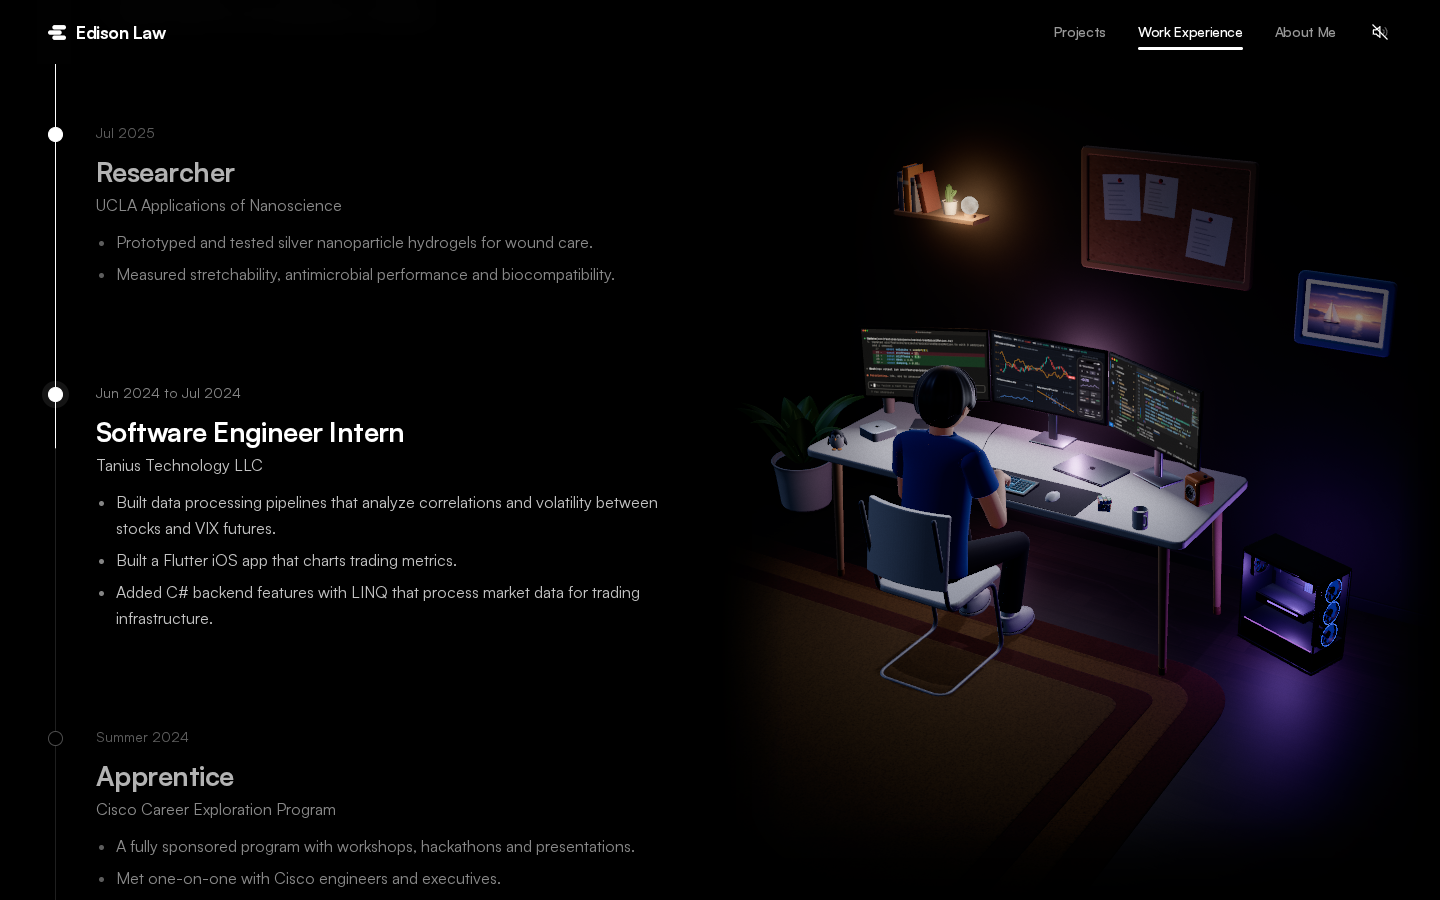
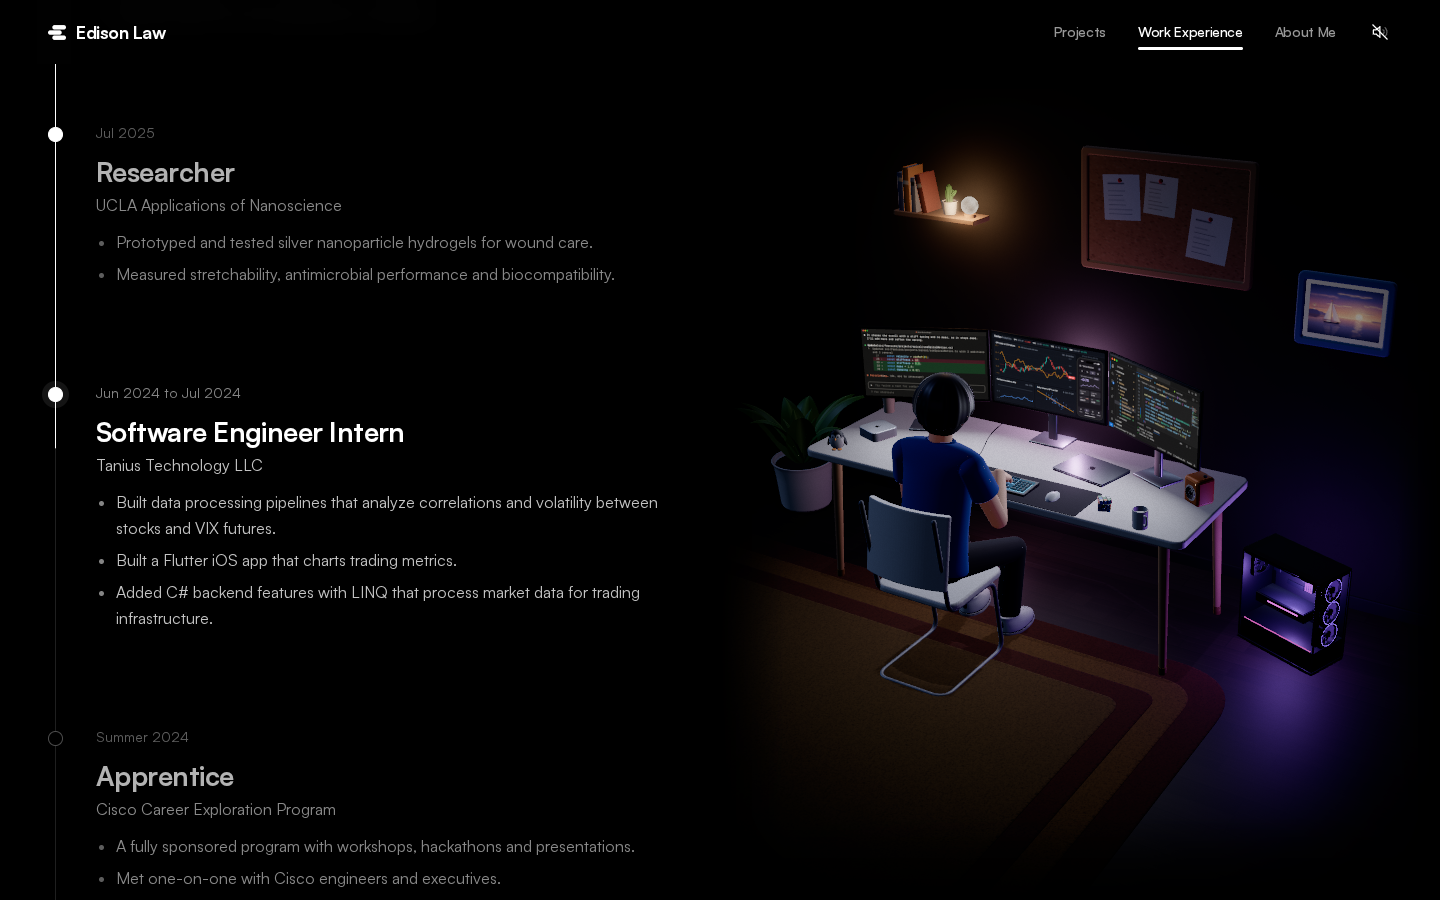
Make Edison a little shorter and refresh the previews
He now stands about 1.69 m instead of 1.76 m: shorter legs and trunk,
arms trimmed to match, same head and face. The loading previews for
phones and desktops are captured again so they show the new figure,
with the dog fully faded in.

Changed region(s): [[0.5938, 0.3733, 0.7188, 0.56], [0.9062, 0.6533, 0.9375, 0.7156], [0.6875, 0.5911, 0.7188, 0.6222]]

diff --git a/src/features/workstation/character/dimensions.ts b/src/features/workstation/character/dimensions.ts
@@ -1,36 +1,36 @@
 /**
  * Body measurements in metres, in the character's own space (+Y up, facing +Z, his left is +X).
- * Standing he is about 1.76 tall and roughly 6.5 heads tall, a college student's build: long legs
+ * Standing he is about 1.69 tall and roughly 6.3 heads tall, a college student's build: long legs
  * and arms, broad shoulders and a head a little larger than life, so his face still reads from afar.
  */
 export const BODY = {
   /** Pelvis joint above the floor when standing, a touch under the straight leg length so the knees stay soft. */
-  standingPelvisHeight: 0.905,
+  standingPelvisHeight: 0.866,
   /** Pelvis joint above the seat contact point when seated. */
   seatedPelvisHeight: 0.13,
 
   /** Hip joints relative to the pelvis joint. */
   hip: { x: 0.088, y: -0.036 },
-  thigh: 0.43,
-  shin: 0.41,
+  thigh: 0.412,
+  shin: 0.389,
   /** Height of the ankle joint above the sole. */
   ankle: 0.077,
 
   /** Waist pivot above the pelvis joint. */
-  spine: 0.071,
+  spine: 0.067,
   /** Chest pivot above the waist pivot. */
-  chest: 0.178,
+  chest: 0.168,
   /** Shoulder joints relative to the chest pivot. */
-  shoulder: { x: 0.174, y: 0.216, z: -0.006 },
+  shoulder: { x: 0.174, y: 0.204, z: -0.006 },
   /** Base of the neck above the chest pivot. */
-  neck: 0.27,
+  neck: 0.255,
   /** Head pivot above the base of the neck. */
   headPivot: 0.05,
   /** Centre of the skull relative to the head pivot. */
   headCenter: { y: 0.122, z: 0.012 },
 
-  upperArm: 0.31,
-  forearm: 0.27,
+  upperArm: 0.302,
+  forearm: 0.263,
 } as const;
 
 /**
@@ -38,7 +38,7 @@ export const BODY = {
  * them to the adult build above: wider, much longer and a little deeper. The spine, chest, neck and
  * shoulder measurements above are the originals stretched the same way, so every seam still meets.
  */
-export const TRUNK_SCALE = [1.15, 1.42, 1.0] as const;
+export const TRUNK_SCALE = [1.15, 1.34, 1.0] as const;
 /** The trouser seat is stretched less in height, so he sits on the chair rather than floating over it. */
 export const SEAT_SCALE = [1.18, 1.2, 1.08] as const;
 /** The head and everything on it (face, hair, ears) is modelled large and shrunk to this size. */

diff --git a/README.md b/README.md
@@ -47,7 +47,7 @@ Next.js 16 with the App Router, React 19 and TypeScript. Tailwind CSS 4 for styl
 ### The desk scene
 
 - The room, the props, Edison and his dog are all built from primitives in code, with no model files. `src/features/workstation/layout.ts` holds the shared measurements, so the desk, keyboard, chair, character and dog line up.
-- Edison is built to a college student's proportions, about 1.76 m and six and a half heads tall, on a small rig with two-bone IK. Seated, his hands type on the real keyboard position and his feet rest flat on the floor. Standing, he sips his coffee, stops to think and strokes the golden retriever, which sits at his side, leans into his hand and sweeps its tail. The dog is sculpted in a worker and fades in once it is ready.
+- Edison is built to a college student's proportions, about 1.69 m and six heads tall, on a small rig with two-bone IK. Seated, his hands type on the real keyboard position and his feet rest flat on the floor. Standing, he sips his coffee, stops to think and strokes the golden retriever, which sits at his side, leans into his hand and sweeps its tail. The dog is sculpted in a worker and fades in once it is ready.
 - The desk has three matching monitors, a Mac mini and a MacBook Pro with its lid shut. The wall has a shelf, a cork board and a framed picture of a sailboat at dusk.
 - The monitors show Claude Code, Codex and VS Code, painted with Canvas 2D at high resolution and animated by one shared scheduler. The faces are shown exactly as painted and sampled carefully, so their text stays sharp. Each job in the timeline has its own picture for the centre monitor.
 - The lighting is steady and bright. Each monitor throws the same cool white area light whatever it shows, the RGB setup spills a soft violet onto the floor and the wall behind the desk, and a faint moonlight comes from the left. None of it changes while you scroll, so only the centre screen changes. One RGB clock cycles the hue of the glowing parts alone, the tower fans and light strips. Bloom, AgX tone mapping, a vignette and a little grain finish it.
